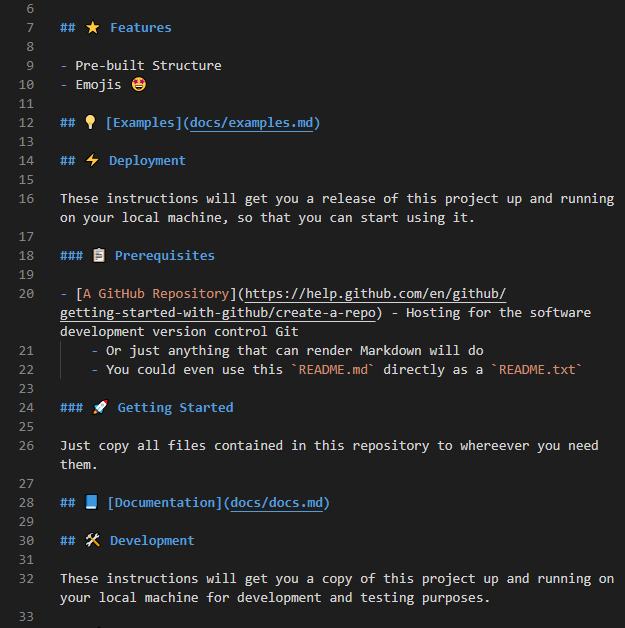
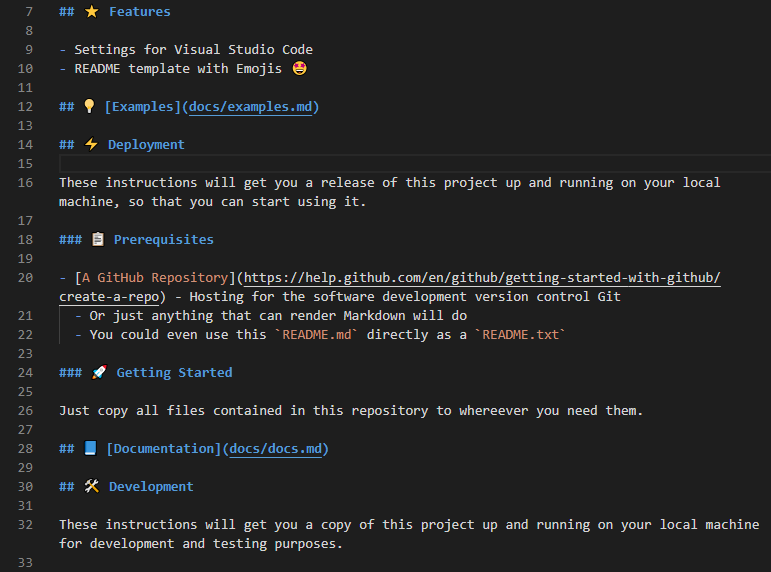
Proper initial commit

Changed region(s): [[0.0304, 0.0, 1.0, 0.5944], [0.0304, 0.535, 1.0, 1.0]]

diff --git a/README.md b/README.md
@@ -1,13 +1,13 @@
-# 📄 template-README
+# 📄 template-vscode
 
-Template for creating READMEs
+Template for creating projects with Visual Studio Code
 
-<img src="docs/images/usage.png" height="650">
+<img src="docs/images/usage.png" height="550">
 
 ## ⭐ Features
 
-- Pre-built Structure
-- Emojis 🤩
+- Settings for Visual Studio Code
+- README template with Emojis 🤩
 
 ## 💡 [Examples](docs/examples.md)
 
@@ -18,8 +18,8 @@ These instructions will get you a release of this project up and running on your
 ### 📋 Prerequisites
 
 - [A GitHub Repository](https://help.github.com/en/github/getting-started-with-github/create-a-repo) - Hosting for the software development version control Git
-    - Or just anything that can render Markdown will do
-    - You could even use this `README.md` directly as a `README.txt`
+  - Or just anything that can render Markdown will do
+  - You could even use this `README.md` directly as a `README.txt`
 
 ### 🚀 Getting Started
 
@@ -34,31 +34,33 @@ These instructions will get you a copy of this project up and running on your lo
 ### 📋 Prerequisites
 
 - [Visual Studio Code](https://code.visualstudio.com/)
-    - Or just any text editor, which supports syntax highlighting for Markdown
-    - You could even use one without syntax highlighting
 
 ### 🚀 Getting Started
 
 1. Get a copy of this repository
-    - Either by clicking the `Use this template` button next to the `Clone or download` button and creating a new GitHub repository based on this template
-    - Or by clicking the `Clone or download` button and then cloning or just simply downloading the repository
+   - Either by clicking the `Use this template` button next to the `Clone or download` button and creating a new GitHub repository based on this template
+   - Or by clicking the `Clone or download` button and then cloning or just simply downloading the repository
 1. Start editing the repository contents
-    - Either by opening up this `README.md` in your text editor - or, even better, open the whole folder into which you cloned or downloaded this repository
-    - Or - if you're using a GitHub repository - by making the changes directly in the web interface, after you created your own repository based on this template
+   - Either by opening up this `README.md` in your text editor - or, even better, open the whole folder into which you cloned or downloaded this repository
+   - Or - if you're using a GitHub repository - by making the changes directly in the web interface, after you created your own repository based on this template
 1. Rename the `LICENSE` file, so it's clear that is the license for this original repository and keep it in your repository
-    - E.g. name it `LICENSE-template-README`
+   - E.g. name it `LICENSE-template-vscode`
 1. Add your own `LICENSE` file
-1. Change the title (`#`) according to your project name and choose a fitting emoji to add to it
+1. Add your code and everything else, which is part of your project
+1. Add recommended extensions to `.vscode/extensions.json` under `recommendations`
+   - You need to enter the extension's ID, which you can find by selecting the extension in VSCode's Extension menu and then you'll see it next to the extension's name in the main window
+1. Change the title (`#`) of this README according to your project name and choose a fitting emoji to add to it
 1. Take a screenshot from your project in action and replace `docs/images/usage.png` with it
-1. Edit the section as you need
+1. Edit the sections as you need
 1. Add documentation and examples to `docs/`, if needed
-    - Otherwise remove `docs/docs.md` and `docs/examples.md`, as well as the relevant sections
+   - Otherwise remove `docs/docs.md` and `docs/examples.md`, as well as the relevant sections
 1. Remove other sections you don't need
 1. Remove emojis from 3rd-level sections (`###`), if they are too close together (= not a lot of content in the sections) to avoid them getting too distracting
 
 ### 🐞 Troubleshooting
 
 #### Something is not working
+
 Do this thing to fix it.
 
 ## 🧰 Built With
@@ -74,7 +76,7 @@ Do this thing to fix it.
 ## 👨💻 Authors
 
 - **Robin Hartmann** - [robin-hartmann](https://github.com/robin-hartmann)
-    - *Entire Template*
+  - _Entire Template_
 
 ## 📃 License
 
